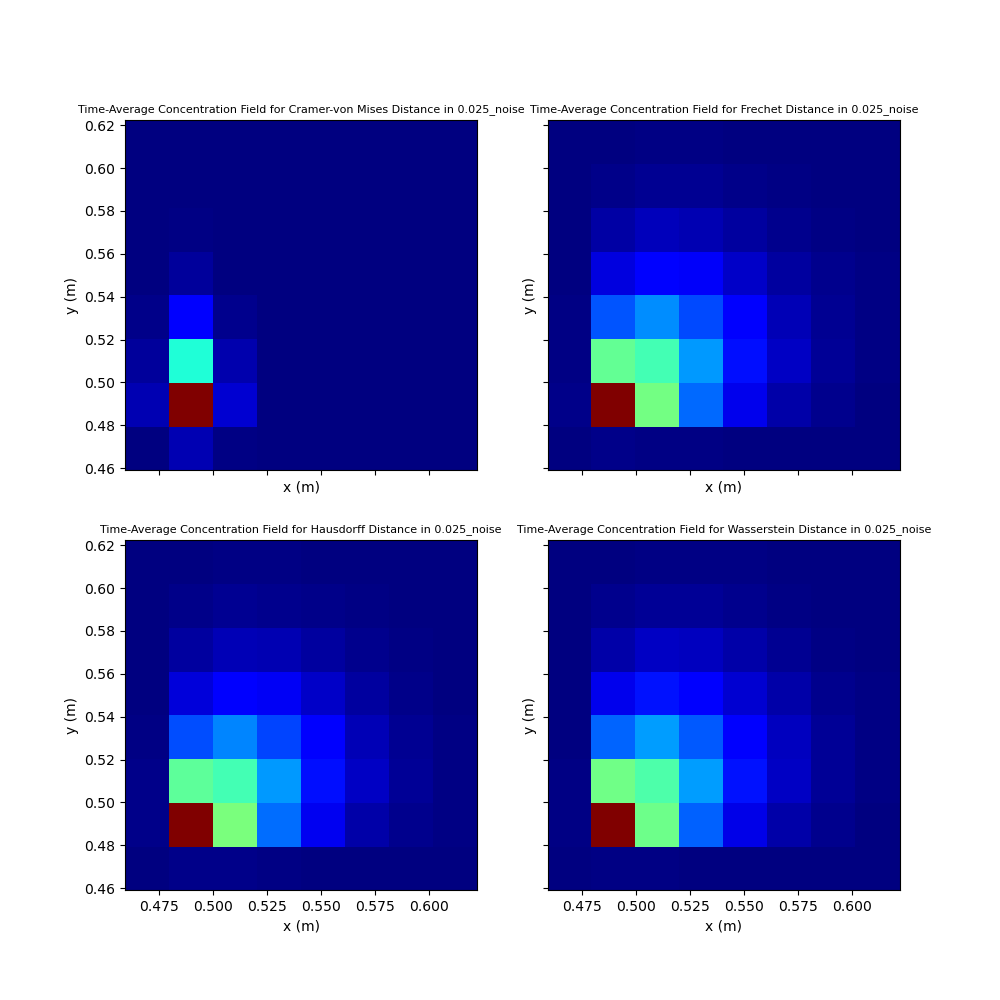
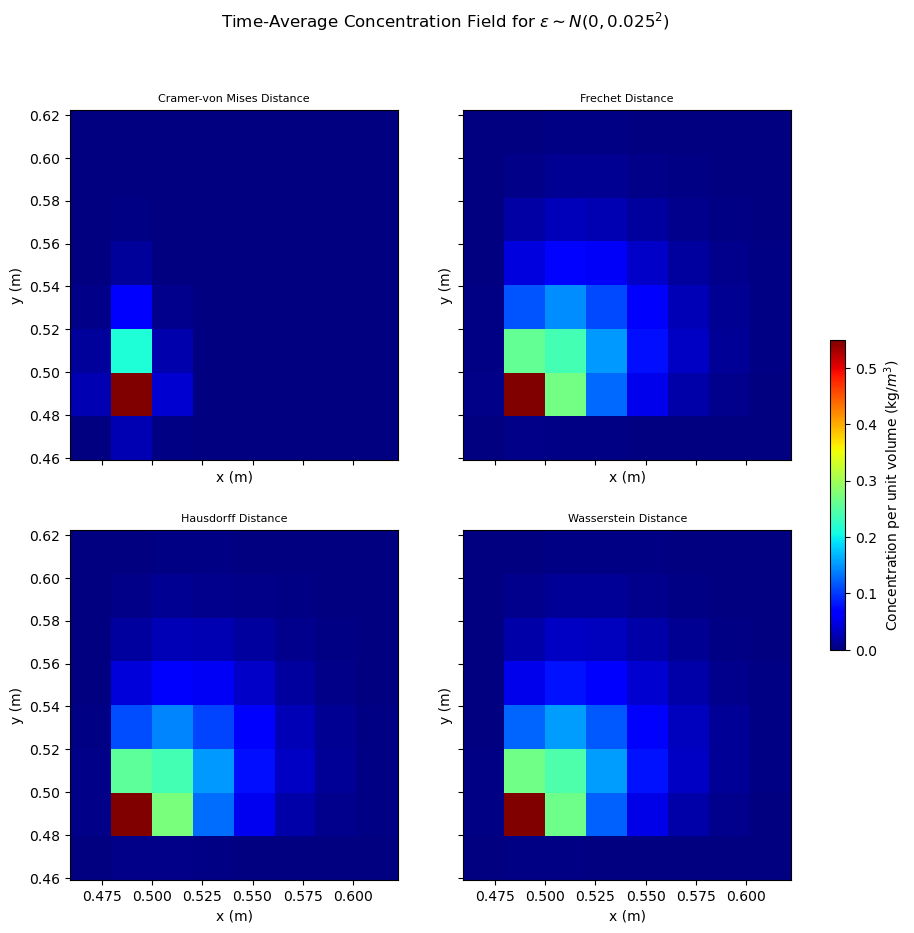
fixed solution plots and added posterior median distribution.

diff --git a/gaussian_plume/posterior_median_distribution.py b/gaussian_plume/posterior_median_distribution.py
@@ -1,0 +1,63 @@
+import numpy as np 
+import matplotlib.pyplot as plt
+import os
+import seaborn as sns
+from matplotlib.ticker import ScalarFormatter
+
+MODELS_PATH = "./gaussian_plume/results"
+PLOT_PATH = "./gaussian_plume/plots"
+
+PARAMS = ["$c_x$", "$c_y$", "$s$"]
+TRUE_VALUES = [0.5, 0.5, 5e-5]
+BINS = [7, 7, 10]
+
+if __name__ == "__main__":
+    models = os.listdir(MODELS_PATH)
+
+    for model in models:
+        fig, ax = plt.subplots(3, 1, figsize=(12, 7), sharex=False)
+        cx_values, cy_values, s_values = {}, {}, {}
+        metric_path = os.path.join(MODELS_PATH, model)
+        plot_path = os.path.join(PLOT_PATH, model)
+        metrics = os.listdir(metric_path) 
+
+        for metric in metrics:
+            posterior_path = os.path.join(metric_path, metric)
+            posteriors = os.listdir(posterior_path)
+            path = os.path.join(posterior_path, posteriors[0])
+            p = np.load(path)
+            cx_values[metric] = p[:, :, 1][:, 0]
+            cy_values[metric] = p[:, :, 1][:, 1]
+            s_values[metric]  = p[:, :, 1][:, 2]
+
+        for i, (param, true_val, bins) in enumerate(zip([cx_values, cy_values, s_values], TRUE_VALUES, BINS)):
+            for metric, values in param.items():
+                sns.histplot(ax=ax[i], data=values, stat="probability", element="bars", fill=True, label=metric, bins=bins)
+            ax[i].axvline(true_val, color='red', linestyle='--', label="True Value" if i == 0 else "")
+            ax[i].set_xlabel(PARAMS[i])
+            ax[i].set_ylabel("")
+            ax[i].grid(True)
+            if i == 2:
+                ax[i].xaxis.set_major_formatter(ScalarFormatter(useMathText=True))
+                ax[i].ticklabel_format(style='sci', axis='x', scilimits=(0, 0))
+
+        # Title
+        model_name = model.split("_")
+        if model_name[0] == "no":
+            title = "Distribution of Posterior Medians for $\\varepsilon\\sim N(0, 0)$"
+        elif model_name[0] == "linear":
+            title = "Distribution of Posterior Medians for $\\varepsilon\\sim N(0, t^2)$"
+        else:
+            title = f"Distribution of Posterior Medians for $\\varepsilon\\sim N(0, {model_name[0]}^2)$"
+        fig.suptitle(title, fontsize=14)
+        fig.supylabel("Probability")
+
+        # Only one legend, placed smartly
+        ax[0].legend(loc="upper right", bbox_to_anchor=(1.3, 1), title="Distance Metric", title_fontsize='medium')
+
+        # Adjust layout and save
+        plt.tight_layout(rect=[0, 0.03, 1, 0.95])  # Leaves space for suptitle
+        os.makedirs(plot_path, exist_ok=True)
+        save_path = os.path.join(plot_path, "posterior_median_distribution.png")
+        fig.savefig(save_path, dpi=300, bbox_inches='tight')
+        plt.close(fig)

diff --git a/gaussian_plume/all_solution_plot.py b/gaussian_plume/all_solution_plot.py
@@ -65,9 +65,13 @@ if __name__ == "__main__":
     s = df_01[(df_01["param"] == "s") & (df_01["summary_statistic"] == "Median")].reset_index(drop=True)
 
     for model in MODELS:
+        # Create the figure and subplots
         fig, axes = plt.subplots(2, 2, sharex=True, sharey=True, figsize=(10, 10))
         axes = axes.flatten()
         save_path = os.path.join(SAVE_PATH, model)
+
+        # Initialize a variable to store the mappable for colorbar
+        mappable = None
 
         for i, metric in enumerate(METRICS):
             cx_metric = list(cx[(cx["model"] == model)][metric])[0]
@@ -76,12 +80,30 @@ if __name__ == "__main__":
 
             sol = generate_solution(Nx, Ny, Lx, Ly, cx_metric, cy_metric, s_metric)
             X, Y = np.meshgrid(x[23:31], y[23:31])
-            axes[i].pcolor(X, Y, np.mean(sol[23:31, 23:31, :], axis=2), cmap='jet', shading='auto')
-            # axes[i].colorbar(label="Concentration per unit volume (kg/$m^3$)")
+            
+            # Store the output of pcolor to use for colorbar
+            pcm = axes[i].pcolor(X, Y, np.mean(sol[23:31, 23:31, :], axis=2), cmap='jet', shading='auto')
+            if mappable is None:
+                mappable = pcm  # Capture one of the pcolor objects for colorbar
+
             axes[i].set_xlabel("x (m)")
             axes[i].set_ylabel("y (m)")
-            axes[i].set_title(f"Time-Average Concentration Field for {metric} in {model}", fontsize=8)
-        
+            axes[i].set_title(metric, fontsize=8)
 
+        # Construct the title
+        model_name = model.split("_")
+        if model_name[0] == "no":
+            title = "Time-Average Concentration Field for $\\varepsilon\\sim N(0, 0)$"
+        elif model_name[0] == "linear":
+            title = "Time-Average Concentration Field for $\\varepsilon\\sim N(0, t^2)$"
+        else:
+            title = f"Time-Average Concentration Field for $\\varepsilon\\sim N(0, {model_name[0]}^2)$"
+        fig.suptitle(title)
+
+        # Add a single colorbar to the figure
+        cbar = fig.colorbar(mappable, ax=axes, orientation='vertical', fraction=0.02, pad=0.05)
+        cbar.set_label("Concentration per unit volume (kg/$m^3$)")
+
+        # Save the figure
         image_save = os.path.join(save_path, "solution.png")
-        fig.savefig(image_save)
+        fig.savefig(image_save, bbox_inches='tight')
